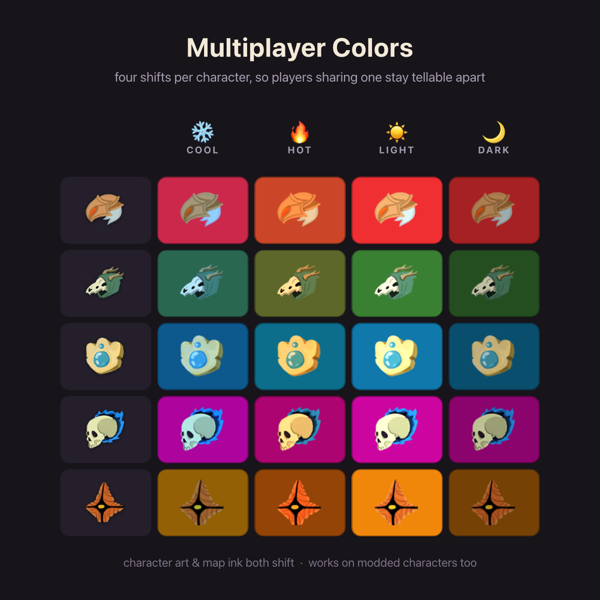
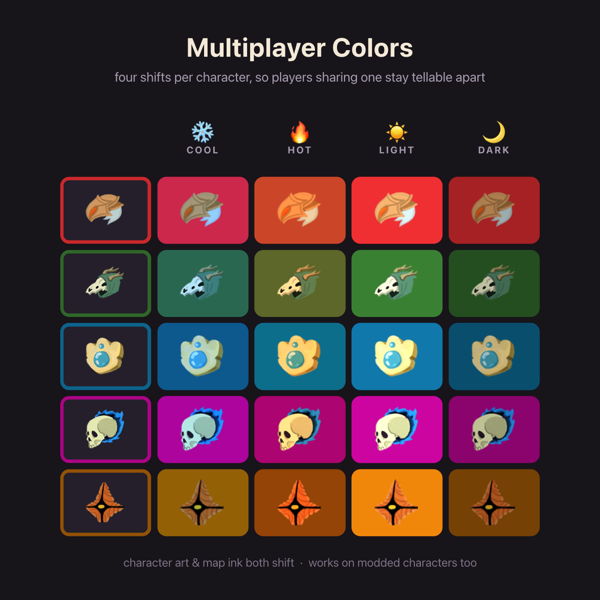
Make thumbnail cell fills pixel-exact, outline row titles in base ink
The cell colours were already taken straight from PlayerTint.MapInkFor, but
the rendering was not exact: td carried an inset rgba(0,0,0,.3) ring and the
icons cast a drop-shadow, both of which darken background pixels. Removed
both, so every cell fill is now precisely the colour the mod draws with.

Verified rather than assumed — sampling the rendered PNG finds all 20
variation colours present at ~4000 exact-match pixels each.

Row titles now carry the character's untinted MapDrawingColor as an outline,
so each row reads as "base colour, then the four it shifts to".

diff --git a/scripts/make-thumbnail.py b/scripts/make-thumbnail.py
@@ -47,6 +47,15 @@ MULTIPLIERS = {
     "Cooler": (0.7812, 1.0000, 1.2800),
 }
 
+# CharacterModel.MapDrawingColor - the untinted ink, used to outline each row's title icon.
+BASE_INKS = {
+    "ironclad": "cb282b",
+    "silent": "2f6729",
+    "defect": "0d638c",
+    "necrobinder": "ac0486",
+    "regent": "935206",
+}
+
 # PlayerTint.MapInkFor - each character's real map-ink colour per variation.
 INKS = {
     "ironclad": {"Brighter": "f02f33", "Darker": "a62123", "Warmer": "cb4628", "Cooler": "cb284c"},
@@ -113,7 +122,10 @@ def build_html(icons):
             f'<img src="{icons[c]}" style="filter:url(#f_{key})">'
             f'</td>'
             for key, _, var in COLUMNS)
-        rows += f'<tr><th class="ch"><img src="{icons[c]}"></th>{cells}</tr>'
+        # Row title carries the character's untinted map colour as an outline, so each row reads as
+        # "base colour, then the four it shifts to".
+        rows += (f'<tr><th class="ch" style="box-shadow:inset 0 0 0 .6vw #{BASE_INKS[c]}">'
+                 f'<img src="{icons[c]}"></th>{cells}</tr>')
 
     # Everything is sized in vw rather than px: qlmanage rasterises at a viewport of its own choosing and
     # then scales the result to a square, so a fixed-pixel layout ends up small in one corner. Viewport
@@ -127,9 +139,10 @@ p{{margin:1vw 0 2.2vw;font-size:2.2vw;color:#a79cb0}}
 table{{border-collapse:separate;border-spacing:1vw}}
 th,td{{width:15vw;height:11vw;text-align:center;vertical-align:middle}}
 th.ch{{width:12.5vw;background:#241f2b;border-radius:1.5vw}}
-td{{border-radius:1.5vw;box-shadow:inset 0 0 0 .17vw rgba(0,0,0,.3)}}
-img{{width:8.5vw;height:8.5vw;vertical-align:middle;
-  filter:drop-shadow(0 .17vw .34vw rgba(0,0,0,.55))}}
+/* No inset ring on the cells and no drop-shadow under the icons: both would darken background pixels,
+   and every cell fill has to be *exactly* the map colour the mod really draws with. */
+td{{border-radius:1.5vw}}
+img{{width:8.5vw;height:8.5vw;vertical-align:middle}}
 th.ch img{{width:7.5vw;height:7.5vw}}
 .e{{font-size:3.8vw;line-height:1.1}}
 .l{{font-size:1.6vw;color:#a79cb0;letter-spacing:.25vw;text-transform:uppercase}}
